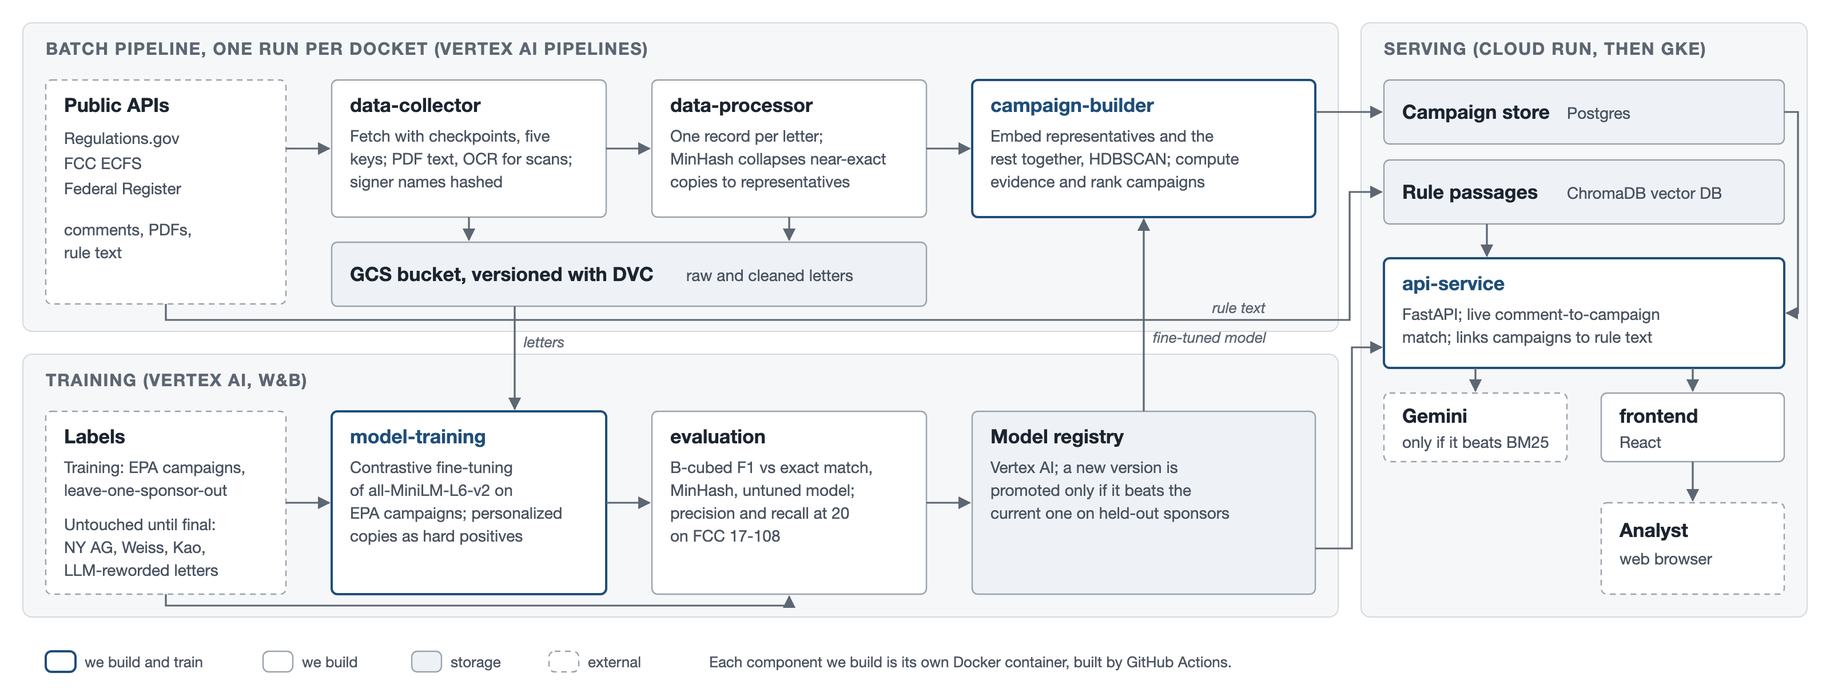
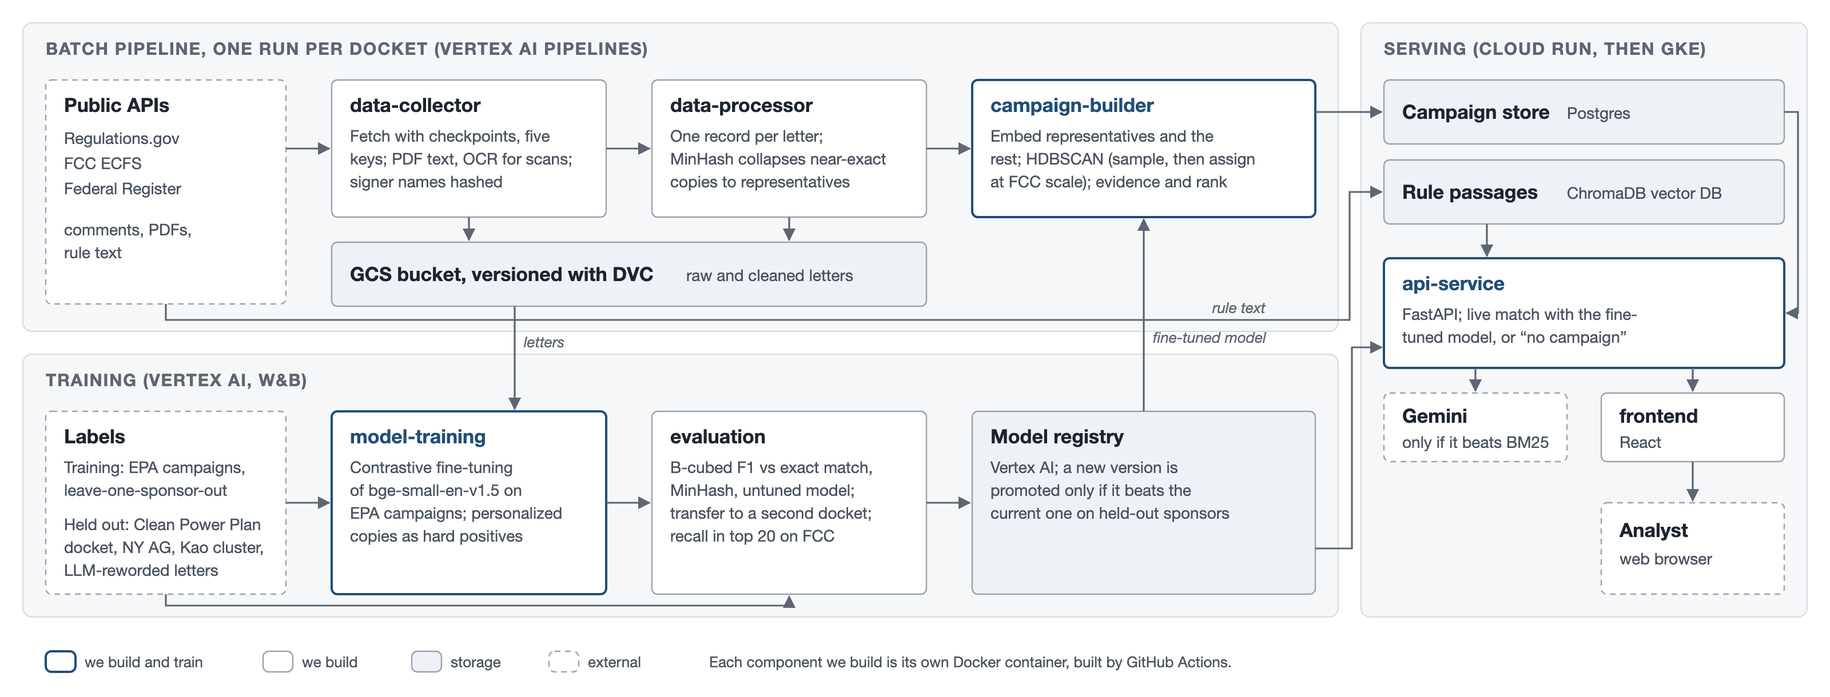
Third review pass: 512-token encoder, measured MinHash baseline, second held-out docket, FCC paging plan, per-source features

diff --git a/docs/architecture.html b/docs/architecture.html
@@ -65,8 +65,8 @@
   <rect class="ours" x="850" y="70" width="300" height="120"/>
   <text class="tb" x="866" y="98">campaign-builder</text>
   <text class="s" x="866" y="124">Embed representatives and the</text>
-  <text class="s" x="866" y="144">rest together, HDBSCAN; compute</text>
-  <text class="s" x="866" y="164">evidence and rank campaigns</text>
+  <text class="s" x="866" y="144">rest; HDBSCAN (sample, then assign</text>
+  <text class="s" x="866" y="164">at FCC scale); evidence and rank</text>
 
   <!-- GCS + DVC -->
   <rect class="store" x="290" y="212" width="520" height="56"/>
@@ -78,14 +78,14 @@
   <text class="t" x="56" y="388">Labels</text>
   <text class="s" x="56" y="414">Training: EPA campaigns,</text>
   <text class="s" x="56" y="434">leave-one-sponsor-out</text>
-  <text class="s" x="56" y="464">Untouched until final:</text>
-  <text class="s" x="56" y="484">NY AG, Weiss, Kao,</text>
+  <text class="s" x="56" y="464">Held out: Clean Power Plan</text>
+  <text class="s" x="56" y="484">docket, NY AG, Kao cluster,</text>
   <text class="s" x="56" y="504">LLM-reworded letters</text>
 
   <rect class="ours" x="290" y="360" width="240" height="160"/>
   <text class="tb" x="306" y="388">model-training</text>
   <text class="s" x="306" y="414">Contrastive fine-tuning</text>
-  <text class="s" x="306" y="434">of all-MiniLM-L6-v2 on</text>
+  <text class="s" x="306" y="434">of bge-small-en-v1.5 on</text>
   <text class="s" x="306" y="454">EPA campaigns; personalized</text>
   <text class="s" x="306" y="474">copies as hard positives</text>
 
@@ -93,8 +93,8 @@
   <text class="t" x="586" y="388">evaluation</text>
   <text class="s" x="586" y="414">B-cubed F1 vs exact match,</text>
   <text class="s" x="586" y="434">MinHash, untuned model;</text>
-  <text class="s" x="586" y="454">precision and recall at 20</text>
-  <text class="s" x="586" y="474">on FCC 17-108</text>
+  <text class="s" x="586" y="454">transfer to a second docket;</text>
+  <text class="s" x="586" y="474">recall in top 20 on FCC</text>
 
   <rect class="store" x="850" y="360" width="300" height="160"/>
   <text class="t" x="866" y="388">Model registry</text>
@@ -112,8 +112,8 @@
 
   <rect class="ours" x="1210" y="226" width="350" height="96"/>
   <text class="tb" x="1226" y="254">api-service</text>
-  <text class="s" x="1226" y="280">FastAPI; live comment-to-campaign</text>
-  <text class="s" x="1226" y="300">match; links campaigns to rule text</text>
+  <text class="s" x="1226" y="280">FastAPI; live match with the fine-</text>
+  <text class="s" x="1226" y="300">tuned model, or &#8220;no campaign&#8221;</text>
 
   <rect class="ext" x="1210" y="344" width="160" height="60"/>
   <text class="t" x="1226" y="370">Gemini</text>

diff --git a/docs/mock.html b/docs/mock.html
@@ -79,7 +79,7 @@
         <div class="kpi hl"><div class="v">92</div><div class="l">campaigns with no listed sponsor</div></div>
       </div>
       <div class="chart">
-        <div class="label">Campaign comments per week, 2019</div>
+        <div class="label">Campaign copies per week, by record date</div>
         <div class="sub">Peak: <b>314,045</b> in the week of the 15 Apr deadline</div>
         <div class="bars" id="bars"></div>
         <div class="axis"><span>week of 28 Jan</span><span>week of 29 Apr</span></div>

diff --git a/milestone1.tex b/milestone1.tex
@@ -5,7 +5,7 @@
 
 \usepackage[T1]{fontenc}
 \usepackage[utf8]{inputenc}
-\usepackage[hmargin=0.75in,vmargin=0.6in]{geometry}
+\usepackage[hmargin=0.75in,vmargin=0.5in]{geometry}
 \usepackage{microtype}
 \usepackage{graphicx}
 \usepackage{enumitem}
@@ -25,10 +25,11 @@
 \begin{document}
 
 \begin{center}
-{\Large\bfseries Undersigned: Who Is Behind a Public Comment Campaign?}\\[5pt]
+{\Large\bfseries Undersigned: Who Is Behind a Public Comment Campaign?}\\[4pt]
 Aidan Eichman, Aadil Jamari, Livia Jonnatan, Andrew Yuan, Rishi Jain\\[1pt]
 {\footnotesize aidaneichman@g.harvard.edu, ajamari@g.harvard.edu, liviajonnatan@g.harvard.edu,
-ayuan@g.harvard.edu, rishi\_jain@brown.edu}
+ayuan@g.harvard.edu, rishi\_jain@brown.edu}\\[1pt]
+{\footnotesize Team Undersigned \textperiodcentered{} AC215, Fall 2026 \textperiodcentered{} Milestone 1, 29 September 2026}
 \end{center}
 
 \section{Background and Motivation}
@@ -42,18 +43,17 @@ That is normal when real people send the letter. It is fraud when the names are 
 arrival the two look the same. New York's Attorney General found that about 18 million of the 22
 million comments on the FCC's 2017 net neutrality repeal were fake, four years after the fact [4].
 
-The closest existing practice is what the Administrative Conference of the United States recommended
-in 2021: post one representative letter per campaign with a count of copies [5]. EPA did exactly that
-on our development docket, its 2019 ``waters of the United States'' rule, filing 507{,}230 comments
-under 201 campaign records and listing the sponsor as unknown for 92 of them. Near-duplicate detection
-automates grouping for exact copies [1] but not for reworded ones, and the 1.3 million likely fake FCC
-comments Kao found were all reworded from one template [2]. Kao's embedding analysis was a one-off
-study of one docket. None of these tell an analyst who is behind a campaign or whether its signers
-look real, so genuine campaigns get written off alongside fake ones and fraud surfaces years later.
+Agencies handle campaigns the way the Administrative Conference of the United States recommended in
+2021: post one representative letter with a count of copies [5]. EPA did this on our development
+docket, its 2019 ``waters of the United States'' rule, filing 507{,}230 comments under 201 campaign
+records and listing the sponsor as unknown for 92 of them.
 
-Our primary user is the agency analyst who has to summarize and answer the comment record.
-Journalists and attorneys general who audit the record, and advocacy groups whose real members get
-discounted, benefit as well. Kao's analysis [2] and the NY AG report [4] drew us to the problem.
+Near-duplicate detection groups exact copies [1, 6] but not reworded ones, and the 1.3 million likely
+fake FCC comments Kao found were all reworded from one template [2]. Nothing available tells an
+analyst who is behind a campaign or whether its signers look real, so genuine campaigns get written
+off alongside fake ones and fraud surfaces years later. Our primary user is the agency analyst who
+has to summarize and answer the comment record. Journalists, attorneys general and advocacy groups
+benefit too. Kao's analysis and the NY AG report drew us to the problem.
 
 \section{Problem Statement}
 
@@ -64,92 +64,100 @@ and the evidence on whether real people sent it, without labelling any individua
 
 \begin{itemize}
   \item \textbf{Source.} Public APIs of Regulations.gov, the FCC's Electronic Comment Filing System
-        (ECFS) and the Federal Register. Known fakes from the NY AG report [4] and Weiss's public
-        dataset of 1{,}001 bot comments with matching human comments [3].
-  \item \textbf{Description.} We use four units. A \emph{record} is one Regulations.gov posting, a
+        (ECFS) and the Federal Register. The NY AG report [4] names the FCC campaigns that were fake.
+  \item \textbf{Description.} A \emph{record} is one Regulations.gov posting or ECFS filing, a
         \emph{comment} is one person's submission, a \emph{letter} is a comment whose full text we
         have, and a \emph{signer} is a name, city and ZIP in a campaign's signer list. The development
         docket (\texttt{EPA-HQ-OW-2018-0149}) has 11{,}444 records standing for 518{,}473 comments:
         11{,}243 individual comments and 201 campaign records covering 507{,}230 more. Of those
-        campaigns, 13 attach every letter (about 116{,}000), 8 attach a signer list or spreadsheet
-        (295{,}647 comments) and 180 attach one sample letter or nothing. ECFS lists 23{,}982{,}072 filings
-        for FCC 17-108, more than the 22 million comments the NY AG counted, and Kao estimated fewer
-        than 800{,}000 distinct texts among them [2].
-  \item \textbf{Key attributes.} Letter text, receipt date, sponsor and copy count per campaign, and
-        signer name, city and ZIP. ECFS adds filer name, ZIP and timestamp; we keep no street addresses.
-  \item \textbf{Relevance.} EPA's grouping labels about 116{,}000 letters with their campaign, and the
-        copies are not all identical: in six of the full campaigns, about 2{,}000 letters differ from
-        their template by more than 10\% in length because senders added their own words. Signer lists let
-        us check whether a campaign's senders look real. The NY AG findings say which FCC campaigns
-        were fake, so FCC 17-108 is our external test.
-  \item \textbf{Data quality concerns.} Fetching one comment takes one API call, 11.4 hours per key for
-        the development docket, so we use five keys and start the FCC bulk download in October.
-        180 campaigns have no copies to analyze, so we use only their counts. Receipt dates have no
-        time of day. Four campaign PDFs are scans, so OCR is needed only there. Signer lists are personal
-        data, so names are hashed at ingestion and only campaign-level totals are ever shown.
+        campaigns, 13 attach every letter (about 114{,}000), 8 attach a signer list or spreadsheet
+        (295{,}647 comments) and 180 attach one sample letter or nothing. A second EPA docket, the 2017
+        Clean Power Plan repeal (\texttt{EPA-HQ-OAR-2017-0355}, 26{,}206 records, 230 campaign records),
+        is held out entirely. ECFS lists 23{,}982{,}072 filings for FCC 17-108.
+  \item \textbf{Key attributes.} Per letter, its text and, for individual comments and ECFS filings,
+        a receipt date. Per campaign record, one receipt date, a sponsor and a copy count. Per signer,
+        name, city and ZIP. We keep no street addresses.
+  \item \textbf{Relevance.} EPA's grouping labels about 114{,}000 letters with their campaign. About
+        1{,}700 of them are \emph{personalized}, meaning the sender added their own words, and at a
+        MinHash similarity threshold of 0.8 only 7\% of those still match their template, so the
+        natural test set is not already solved. \emph{Reworded} letters, rewritten by an LLM, form a
+        separate stress test. Signer lists support campaign evidence, and the NY AG findings make
+        FCC 17-108 the external test for ranking.
+  \item \textbf{Data quality concerns.} One API call per record means 11.4 hours per key for the
+        development docket, so we use five keys. ECFS returns 1{,}000 filings per call but refuses
+        offsets past 10{,}000, so we page through date slices: about 24{,}000 calls, 5 hours across five
+        keys. Campaign records carry one receipt date for all copies. Four campaign PDFs are scans and
+        need OCR. Signer names are hashed with a secret key at ingestion and never displayed.
 \end{itemize}
 
 \section{Scope and Objectives}
 
-One Regulations.gov docket end to end, with FCC 17-108 used only for external validation. We define a
-campaign as comments sharing a template and a sponsor. EPA's grouping follows templates, so it is our
-label, and where one sponsor runs two templates or two sponsors share one, we report the case rather
-than force it. The central challenge is recognizing the same campaign across personalized and reworded letters
-without making judgments about individual commenters. We train only on EPA's grouping and keep the NY AG
-findings, Weiss's comments and Kao's cluster untouched until final evaluation. We reuse an open
-embedding model, HDBSCAN, BM25 and a hosted LLM, and build the rest (architecture in Appendix B).
+We define a campaign as comments sharing a template and a sponsor. EPA's grouping follows templates,
+so it is our label; where one sponsor runs two templates or two sponsors share one, we report the case
+rather than force it. The central challenge is recognizing the same campaign across personalized and
+reworded letters without making judgments about individual commenters. We reuse an open embedding
+model, HDBSCAN, BM25 and a hosted LLM, and build the rest (Appendix B).
 
 \begin{enumerate}[leftmargin=1.4em]
   \item \textbf{Ingest} comments, attachments and signer lists into one record per letter.
-  \item \textbf{Group.} MinHash [1], a fast estimate of word overlap, collapses near-exact copies to one
-        representative each. Representatives and all remaining letters are then embedded and clustered
-        together with HDBSCAN, so a reworded letter joins the group of its template. At FCC scale this
-        runs on distinct texts, not on 24 million filings.
-  \item \textbf{Fine-tune our own embedding model.} We fine-tune \texttt{all-MiniLM-L6-v2} with a
-        contrastive loss that pulls letters from the same EPA campaign together and pushes other
-        campaigns apart. Training pairs are real letters only, with personalized copies as hard
-        positives; no LLM rewordings are used in training. The 13 full campaigns come from seven
-        named sponsors and two unknown ones, so we use leave-one-sponsor-out cross-validation and
-        report the spread across folds.
-  \item \textbf{Characterize} each campaign by size, the share of comments arriving on its busiest day,
-        the share of copies with personal text, whether a sponsor is named in its attachments, and
-        signer checks: ZIP codes outside the stated state, names that also sign other campaigns, and
-        claimed versus listed signer counts. Each feature is measured in median absolute deviations
-        from the docket's median, and campaigns with the largest total rank first for review. This is
-        an interpretable heuristic, not a fraud score; campaigns with no copies are ranked on size,
-        timing and sponsor only.
-  \item \textbf{Link} each campaign to the rule sections it argues about. BM25 keyword retrieval over
-        Federal Register sections is the baseline, then embedding retrieval, and an LLM is added only
-        if it beats both.
-  \item \textbf{Serve} a dashboard and one live endpoint: paste a comment and get its closest campaign
-        and similarity from the fine-tuned model.
+  \item \textbf{Group.} MinHash [6], a fast estimate of word overlap, collapses near-exact copies to
+        one representative each. Representatives and all remaining letters are embedded and clustered
+        together with HDBSCAN, so a reworded letter joins its template's group. On FCC 17-108 the
+        distinct texts still number in the millions, so we cluster a stratified sample and assign the
+        rest to the nearest cluster under a distance threshold.
+  \item \textbf{Fine-tune our own embedding model.} The median letter is about 290 tokens and most
+        personal text comes after the template, past the 256-token limit of small models like
+        MiniLM. We fine-tune \texttt{bge-small-en-v1.5} [3] (512 tokens) with a contrastive loss.
+        Training uses real, deduplicated letters only, with personalized copies as hard positives and
+        sentence dropout, never LLM rewordings. The 13 full campaigns come from seven named sponsors
+        plus unknowns (one group), so we run leave-one-sponsor-out cross-validation.
+  \item \textbf{Characterize} each campaign with measured evidence: size, share of copies with
+        personal text, sponsor named in an attachment, and, where signer lists exist, ZIP codes
+        outside the stated state, names that sign several campaigns, and claimed versus listed signer
+        counts. Arrival timing is used only where each comment has its own date.
+        Each feature is scored in median absolute deviations from the docket median, clipped at 5 and
+        averaged over the features a campaign has, and campaigns are ranked among those with the same
+        features. It suggests what to read first; it is not a fraud score.
+  \item \textbf{Link} each campaign to the rule sections it argues about. BM25 retrieval over
+        Federal Register sections is the baseline, then embedding retrieval, and an LLM only if it
+        beats both.
+  \item \textbf{Serve} a dashboard and one live endpoint that returns a pasted comment's closest
+        campaign, or ``no campaign'' below a similarity threshold set on individual comments.
 \end{enumerate}
 
-\textbf{Success.} Grouping is scored with \emph{B-cubed F1}, which averages precision and recall over
-letters and avoids the quadratic weight pairwise F1 gives large campaigns. The headline result is
-on the naturally personalized letters, with all letters and a per-campaign breakdown alongside, each
-against exact matching, MinHash and the untuned model. Reworded
-test letters come from an LLM never used in training, at five strengths (20\% to 100\% of sentences
-rewritten). The fine-tuned model must beat MinHash on reworded letters at every strength without
-losing ground on exact copies. On FCC 17-108 we map each campaign the NY AG names to its ECFS template by text
-search, then report precision and recall in our top 20, how many campaigns were ranked, and every
-false positive. Sponsor evidence
-is audited by hand on the 92 unknown-sponsor campaigns, and provision links by top-1 accuracy on 50
-hand-mapped campaigns, at least half of which argue about a specific section. For the analyst, success is every campaign and its evidence on one screen
-instead of keyword search.
+\textbf{Success.}
+\begin{itemize}
+  \item \textbf{Grouping.} \emph{B-cubed F1} averages precision and recall over letters, avoiding the
+        quadratic weight pairwise F1 gives large campaigns. Each fold clusters the whole docket and
+        scores the held-out sponsor's letters (outliers count as single-letter groups). Headline:
+        personalized letters, against exact match, MinHash at 0.5 and 0.8, and the untuned model.
+  \item \textbf{Robustness.} Letters reworded by an unseen LLM at five strengths (20--100\% of sentences);
+        the fine-tuned model must beat MinHash at every strength.
+  \item \textbf{Transfer.} The same comparison on the held-out Clean Power Plan docket and against Kao's
+        1.3-million-comment FCC cluster [2]. If fine-tuning loses here, we ship the untuned model.
+  \item \textbf{Ranking.} NY AG campaigns mapped to ECFS templates: their number, recall in our top 20,
+        and every false positive.
+  \item \textbf{Evidence and links.} Hand audit of the 92 unknown-sponsor campaigns; top-1 accuracy on 50
+        hand-mapped campaigns, at least half about a specific section.
+\end{itemize}
+
+For the analyst, success is every campaign and its evidence on one screen instead of keyword search.
 
 \section{Minimum Components}
 
-\textbf{Large, heterogeneous data.} Half a million EPA comments and 24 million FCC filings from three
-APIs, in text, HTML, PDF, spreadsheets and scans. \textbf{Scalability.} Grouping works on distinct texts, so FCC 17-108 shrinks
-from 24 million filings to under a million; the API is stateless and scales with users on Cloud Run,
-then GKE. \textbf{Complex model.} The fine-tuned embedding model, trained on Vertex AI and retrained
-when a new docket arrives with agency campaign records.
+\begin{itemize}
+  \item \textbf{Large, heterogeneous data.} Half a million EPA comments and 24 million FCC filings
+        from three APIs, in text, HTML, PDF, spreadsheets and scans.
+  \item \textbf{Scalability.} Sample-then-assign clustering keeps FCC 17-108 tractable, and the
+        stateless API scales with users on Cloud Run, then GKE.
+  \item \textbf{Complex model.} The difficulty is few and noisy labels: 13 campaigns with full text,
+        labelled by an agency's manual grouping, and a model that must transfer to unseen dockets.
+\end{itemize}
 
 \section{Learning Emphasis}
 
-From the course, fine-tuning, retrieval and RAG, containers and Vertex AI. From outside it,
-MinHash, density clustering and clustering evaluation without clean labels.
+From the course, fine-tuning, retrieval and RAG, containers and Vertex AI. From outside it, MinHash,
+density clustering and clustering evaluation without clean labels.
 
 \section{Application Mock Design}
 
@@ -164,48 +172,50 @@ Action petition whose cover letter claims 110 more signers than its signer file 
 
 \section{Limitations and Risks}
 
-Making a genuine campaign look fraudulent would harm the group and every real person who signed. The
-app scores campaigns, never people, shows the evidence behind every rank, and labels a sponsor as
-recorded by EPA or found in an attachment. The model would learn EPA's grouping mistakes, so we
-hand-check 200 letter pairs and adjudicate disagreements. Only 13 EPA campaigns contain every letter, so there are many letters but few independent
-campaigns; if fine-tuning does not beat the untuned model on held-out sponsors, we keep the simpler
-model. The FCC labels cover few campaigns, so results there are case studies. Freely LLM-rewritten letters may still escape grouping, and the
-rewording test measures how often. If the full FCC download is not done by MS4, we validate on the
-campaigns the NY AG named plus a random sample of other filings.
+\begin{itemize}
+  \item Making a genuine campaign look fraudulent would harm the group and every real signer. The app
+        ranks campaigns, never people, shows the evidence behind each rank, says whether a sponsor was
+        recorded by EPA or found in an attachment, and corrects any display a named group disputes.
+  \item The model would learn EPA's grouping mistakes, so we hand-check 200 letter pairs and 100
+        letters flagged as personalized. With only 13 full-text campaigns, the transfer test decides
+        whether fine-tuning ships.
+  \item The NY AG findings cover few campaigns, so FCC results are case studies. If the full FCC
+        download slips, we use the named campaigns plus a random sample of other filings.
+\end{itemize}
 
 \section{Milestones}
 
-\textbf{MS2 (20 Oct).} Containerized ingestion with DVC, FCC download started, MinHash and untuned
-baselines with first B-cubed scores, BM25 provision baseline, app skeleton.
-\textbf{MS3 (12 Nov).} Fine-tuning on Vertex AI with W\&B, Vertex pipeline, campaign evidence, live
-API on Cloud Run with monitoring.
-\textbf{MS4 (1 Dec).} Frontend, CI and tests, FCC evaluation, sponsor audit.
-\textbf{MS5 (11 Dec, showcase 10 Dec).} GKE scaling, automated retraining, video and blog post.
+\begin{itemize}
+  \item \textbf{MS2 (20 Oct, LLM track).} Containerized ingestion with DVC, FCC download started, all
+        hand labels but the sponsor audit, MinHash, untuned and BM25 baselines, vector DB, app skeleton.
+  \item \textbf{MS3 (12 Nov).} Fine-tuning on Vertex AI with W\&B, Vertex pipeline, campaign evidence,
+        92-campaign sponsor audit, live API on Cloud Run with monitoring.
+  \item \textbf{MS4 (1 Dec).} Frontend, CI and tests, FCC and Clean Power Plan evaluations.
+  \item \textbf{MS5 (11 Dec, showcase 10 Dec).} GKE scaling, automated retraining demonstrated on the
+        Clean Power Plan docket, video and blog post.
+\end{itemize}
 
 \section{Research and Development}
 
 {\footnotesize
-[1] H. Yang, J. Callan, S. Shulman. Next steps in near-duplicate detection for eRulemaking. dg.o 2006. \href{https://www.cs.cmu.edu/~callan/Papers/dgo06-huiyang.pdf}{cs.cmu.edu}\par
-[2] J. Kao. More than a million pro-repeal net neutrality comments were likely faked. 2017. \href{https://hackernoon.com/more-than-a-million-pro-repeal-net-neutrality-comments-were-likely-faked-e9f0e3ed36a6}{hackernoon.com}\par
-[3] M. Weiss. Deepfake bot submissions to federal public comment websites cannot be distinguished from human submissions. \emph{Technology Science}, 2019. \href{https://techscience.org/a/2019121801/}{techscience.org}; data doi:10.7910/DVN/OQCPOT\par
-[4] New York State Office of the Attorney General. Fake comments report on the FCC's 2017 net neutrality proceeding. May 2021. \href{https://ag.ny.gov/press-release/2021/attorney-general-james-issues-report-detailing-millions-fake-comments-revealing}{ag.ny.gov}\par
-[5] S. Balla, B. Dooling, M. Herz, M. Livermore. Mass, computer-generated, and fraudulent comments. Report to the Administrative Conference of the United States, 2021. \href{https://www.acus.gov/research-projects/mass-computer-generated-and-fraudulent-comments}{acus.gov}
+[1] H. Yang, J. Callan, S. Shulman. Next steps in near-duplicate detection for eRulemaking. dg.o 2006. \url{https://www.cs.cmu.edu/~callan/Papers/dgo06-huiyang.pdf}\par
+[2] J. Kao. More than a million pro-repeal net neutrality comments were likely faked. 2017. \url{https://hackernoon.com/more-than-a-million-pro-repeal-net-neutrality-comments-were-likely-faked-e9f0e3ed36a6}\par
+[3] S. Xiao et al. C-Pack: packaged resources to advance general Chinese embedding (the BGE models). 2023. \url{https://huggingface.co/BAAI/bge-small-en-v1.5}\par
+[4] New York State Office of the Attorney General. Fake comments report on the FCC's 2017 net neutrality proceeding. May 2021. \url{https://ag.ny.gov/press-release/2021/attorney-general-james-issues-report-detailing-millions-fake-comments-revealing}\par
+[5] Administrative Conference of the United States. Recommendation 2021-1, Managing Mass, Computer-Generated, and Falsely Attributed Comments. \url{https://www.acus.gov/research-projects/mass-computer-generated-and-fraudulent-comments}\par
+[6] A. Broder. On the resemblance and containment of documents. Compression and Complexity of Sequences, 1997.
 \par}
 
 \section{Appendix A: Application Mock}
 
 \begin{center}
-\includegraphics[width=0.92\textwidth]{docs/mock.png}
+\includegraphics[width=0.82\textwidth]{docs/mock.png}
 \end{center}
 
 \section{Appendix B: Preliminary Architecture}
 
-A batch pipeline runs once per docket and writes campaigns to a store that the API serves. Training
-runs separately, and a new model replaces the current one only if it scores higher on held-out
-sponsors.
-
 \begin{center}
-\includegraphics[width=0.92\textwidth]{docs/architecture.png}
+\includegraphics[width=0.82\textwidth]{docs/architecture.png}
 \end{center}
 
 \end{document}
